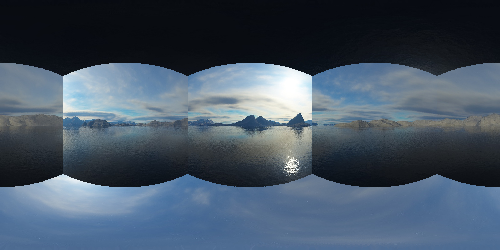
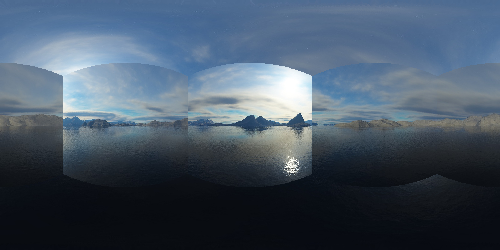
axis fix

diff --git a/src/SkyboxProjection.cpp b/src/SkyboxProjection.cpp
@@ -97,9 +97,9 @@ std::shared_ptr<SphereCoordsContainer> SkyboxProjection::LoadImageToSphericalCoo
     {
         // Top-Bottom plane is simple xy plane. z = {-1, 1}.
         if(topImage != nullptr)
-            uvToCoord(Eigen::Vector3i(0, 1, 2), 1, topImage);
+            uvToCoord(Eigen::Vector3i(0, 1, 2), -1, topImage);
         if(bottomImage != nullptr)
-            uvToCoord(Eigen::Vector3i(0, 1, 2), -1, bottomImage);
+            uvToCoord(Eigen::Vector3i(0, 1, 2), 1, bottomImage);
     }
 
     // Do the front and back images

diff --git a/src/SphereCoordsContainer.cpp b/src/SphereCoordsContainer.cpp
@@ -3,7 +3,7 @@
 #include <iostream>
 
 SphereCoordsContainer::SphereCoordsContainer(int requestedSize)
-    : index(2, cloud, { 10 })
+    : index(2, cloud, { 50 })
 {
     cloud.pts.reserve(requestedSize);
     allocatedSize = requestedSize;
